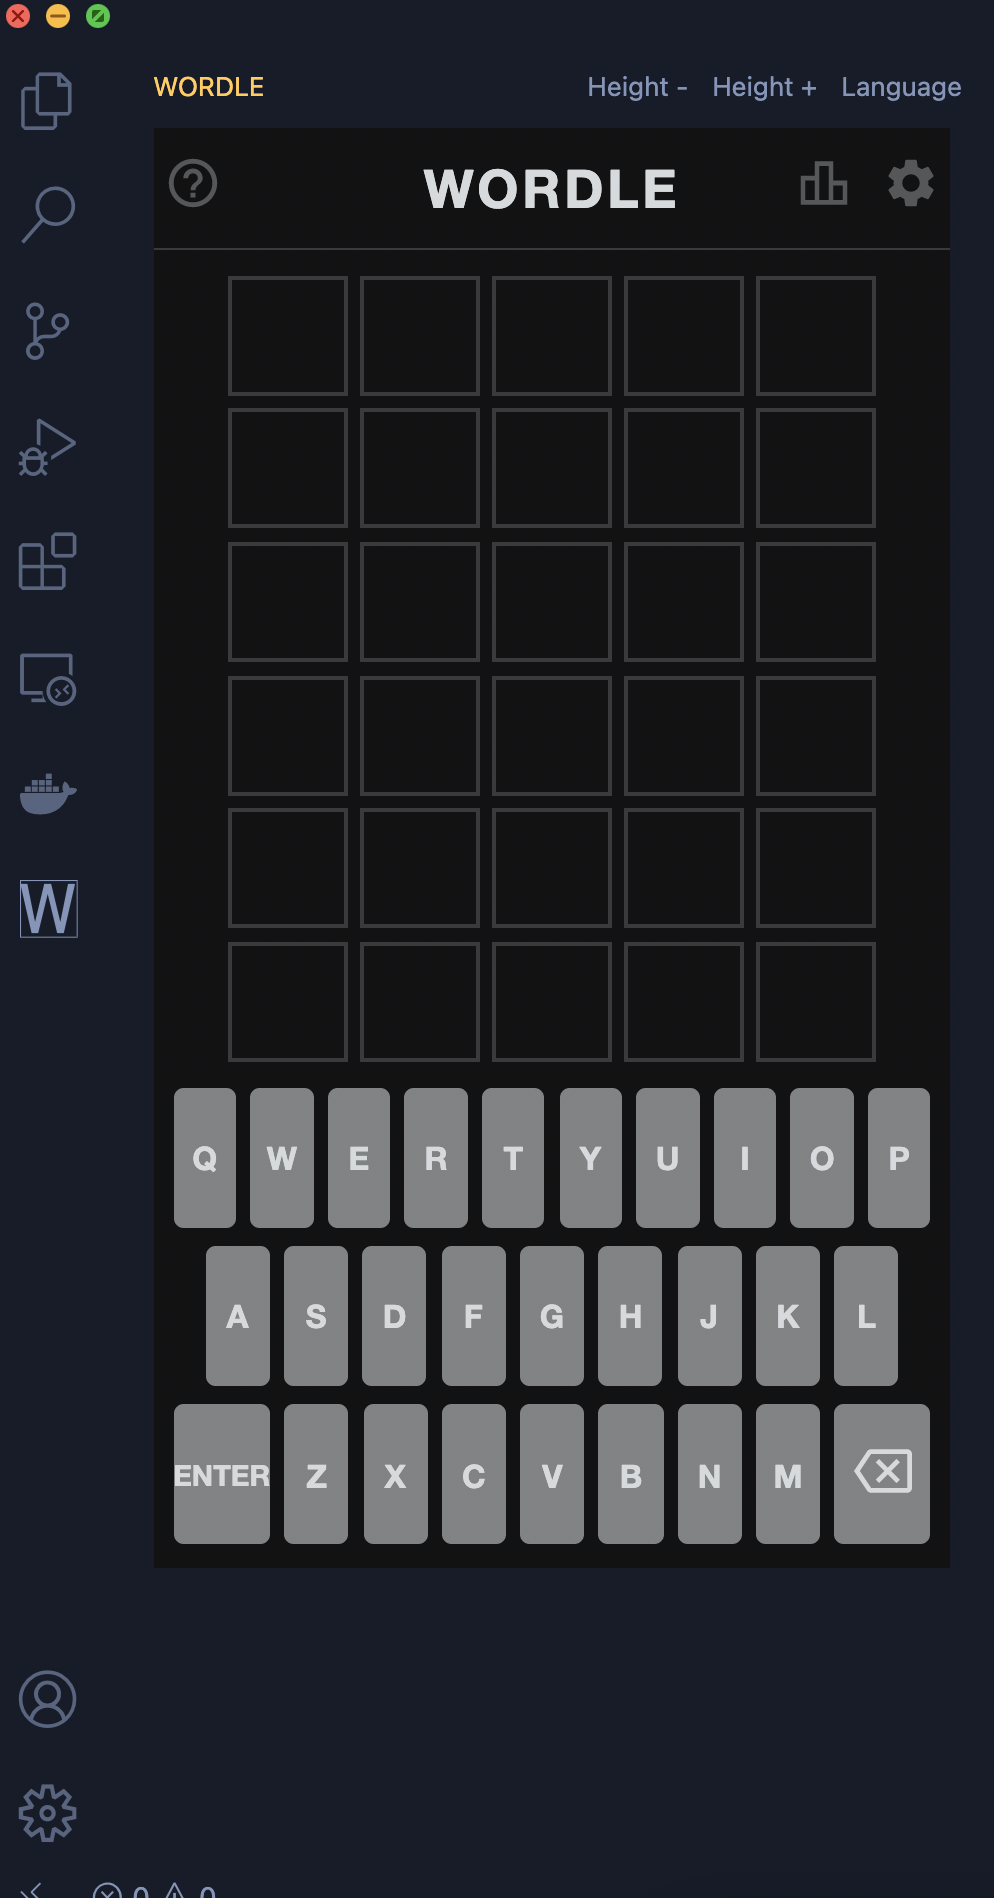
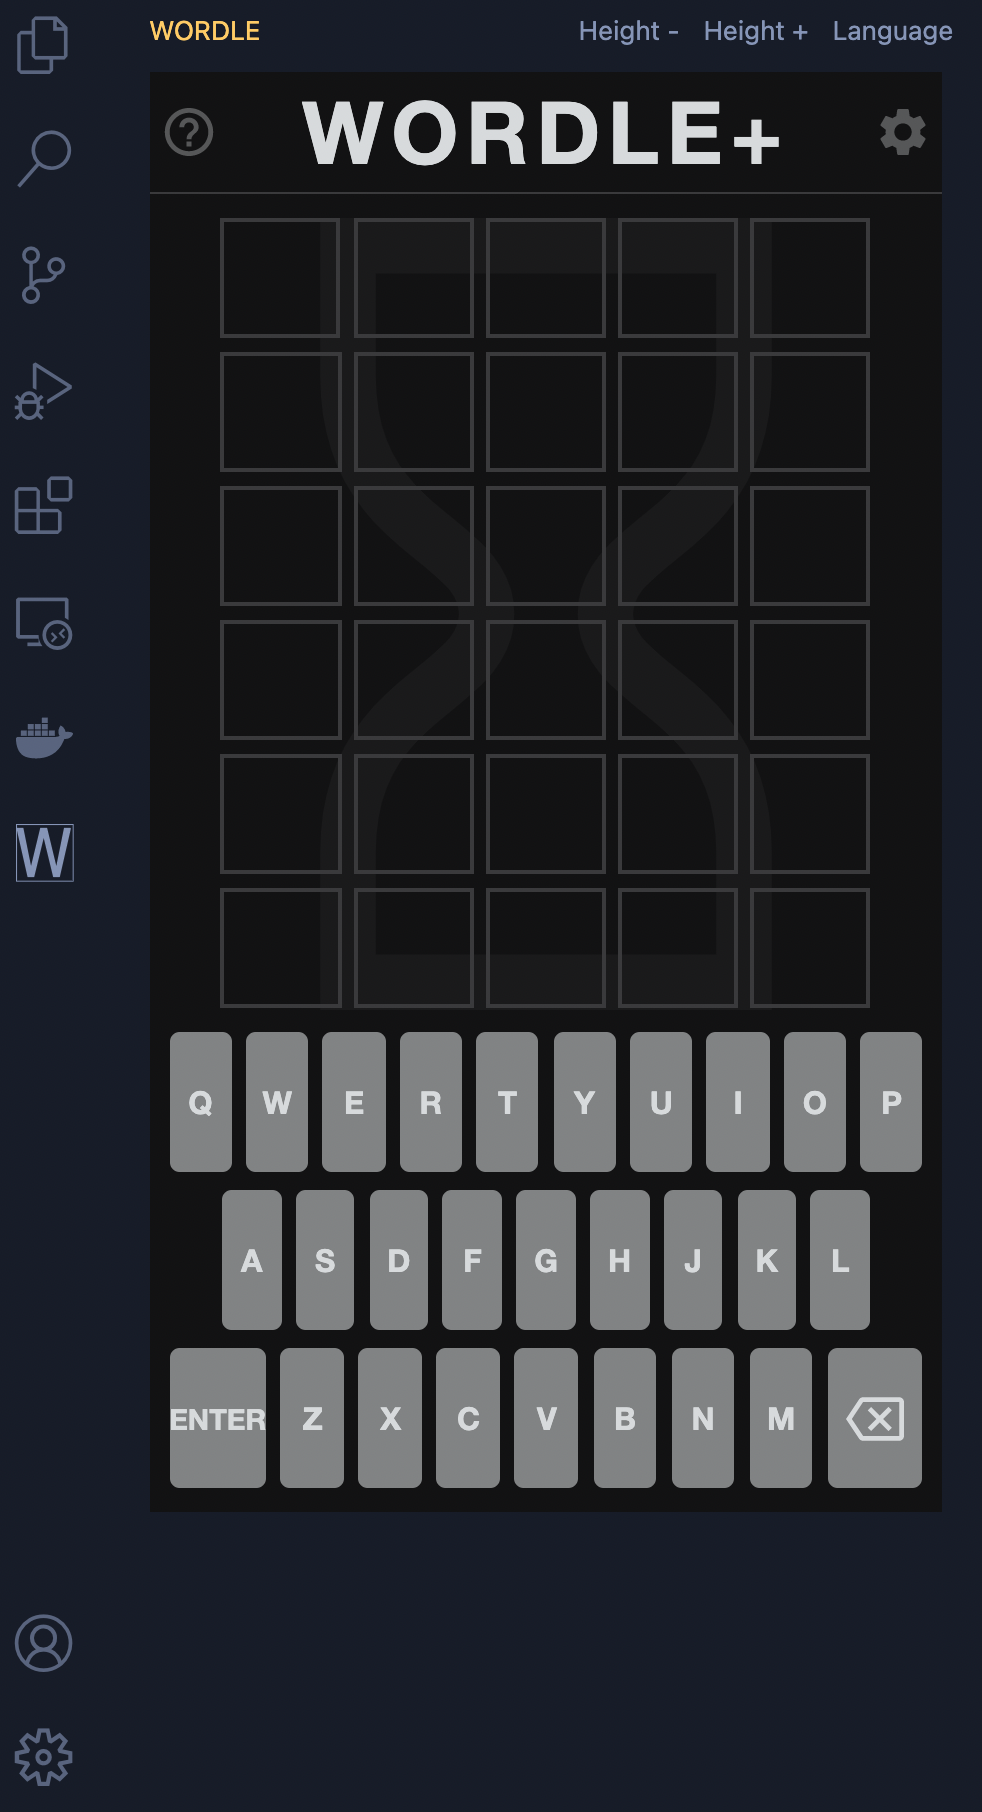
fix english & polish & add quordle & add width changing

diff --git a/src/wordle.ts b/src/wordle.ts
@@ -37,6 +37,7 @@ export class WordleProvider implements vscode.WebviewViewProvider {
 	}
 
     private _getHtmlForWebview() {
+        let width = vscode.workspace.getConfiguration("wordle").get<string>("width");
         return `<!DOCTYPE html>
         <html>
         <head>
@@ -46,7 +47,7 @@ export class WordleProvider implements vscode.WebviewViewProvider {
         
         </head>
         <body>
-            <iframe src="${this.wordleLink}" height="${this.height}" width="100%" scrolling="no" frameborder="0" wmode="transparent"></iframe> 
+            <iframe src="${this.wordleLink}" height="${this.height}" width="${width}" scrolling="no" frameborder="0" wmode="transparent"></iframe> 
         </body>
         </html>`;
     }

diff --git a/src/pick_language.ts b/src/pick_language.ts
@@ -7,10 +7,11 @@ type wordleType = {
 };
 
 export const wordles: wordleType = {
-    "English": "https://www.powerlanguage.co.uk/wordle/",
+    "English": "https://mikhad.github.io/wordle/#daily",
+    "English 4 words": "https://www.quordle.com/#/",
     "German": "https://wordle.at",
     "French": "https://wordle.louan.me",
-    "Polish": "https://literalnie.fun",
+    "Polish": "https://www.kurnik.pl/slowoku/",
     "Spanish": "https://wordle.danielfrg.com",
     "Italian": "https://sebastianomorando.github.io/wordle-it/",
     "Portuguese": "https://term.ooo",

diff --git a/README.md b/README.md
@@ -4,15 +4,20 @@ A simple Visual Studio Code extension allowing to play Wordle directly from the 
 
 The game is available directly from Visual Studio Code sidebar and the extension allows to load different versions of Wordle.
 
+**The original English version is not available anymore, since the transition to New York Times website, because of the impossibility to embed it into a simple html file.**
+
+**Instead you can play Wordle+ by @MikhaD.**
+
 ![illustration](resources/usage.png)
 
 There is the possibility to adjust manually the height of the container in which the Wordle game is displayed.
 
 ## Supported Wordle Games
-- [The English original](https://www.powerlanguage.co.uk/wordle/) 
+- [English](https://mikhad.github.io/wordle/#daily)
+- [English 4 words](https://www.quordle.com/#/)
 - [German](https://wordle.at)
 - [French](https://wordle.louan.me)
-- [Polish](https://literalnie.fun)
+- [Polish](https://www.kurnik.pl/slowoku/)
 - [Spanish](https://wordle.danielfrg.com)
 - [Italian](https://sebastianomorando.github.io/wordle-it/)
 - [Portuguese](https://term.ooo)

diff --git a/CHANGELOG.md b/CHANGELOG.md
@@ -2,6 +2,13 @@
 
 All notable changes to the "wordle" extension will be documented in this file.
 
+## 1.0.2
+
+- Changed English Wordle to <a href="https://mikhad.github.io/wordle/#daily">Wordle+</a> because the original cannot be loaded as an iframe because of X-Frame-Options policy.
+- Changed Polish Wordle to <a href="https://www.kurnik.pl/slowoku/">Słowoku</a> because of compatibility issues.
+- Added <a href="https://www.quordle.com/#/">Quordle</a> (English Wordle with 4 words to guess)
+- Added the possibility to change the width from settings of VSCode.
+
 ## 1.0.1
 
 - Added Danish https://www.wørdle.dk
